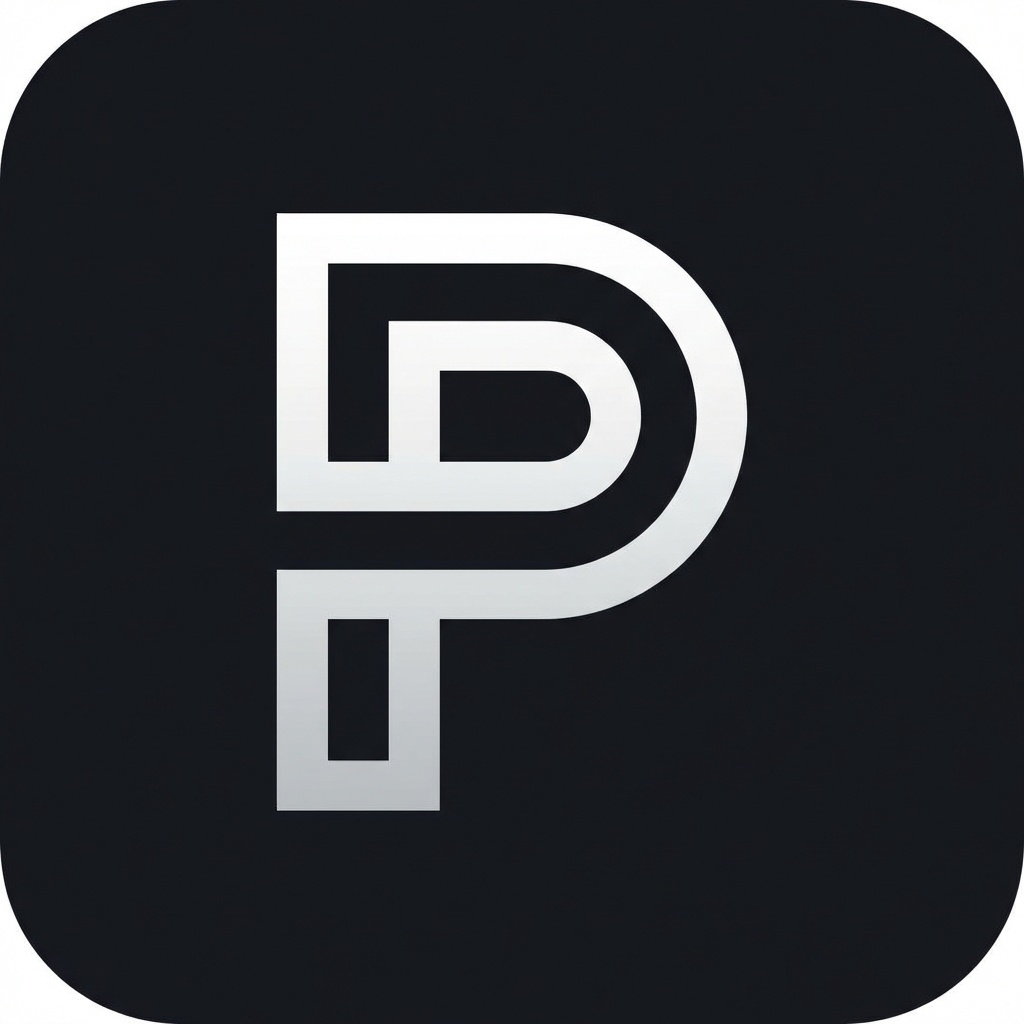
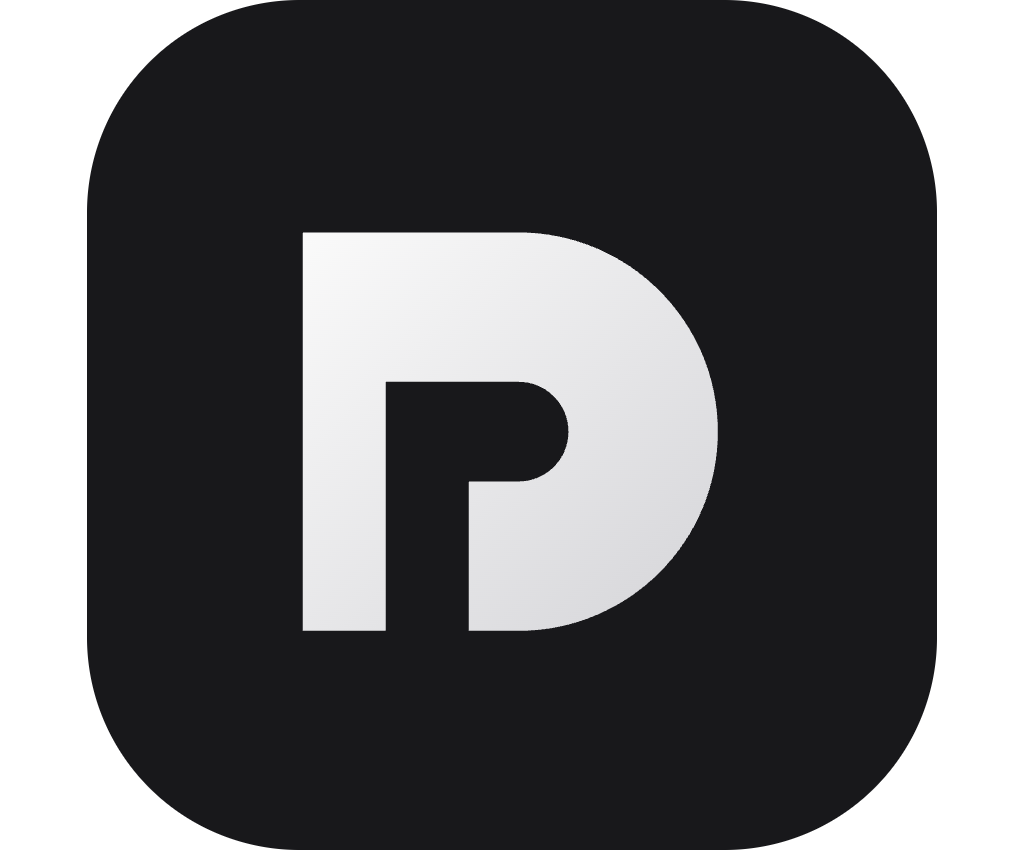
update brand assets

diff --git a/og-gen.html b/og-gen.html
@@ -1,0 +1,21 @@
+<!DOCTYPE html>
+<html>
+<head>
+    <style>
+        body { margin: 0; padding: 0; background-color: #18181b; display: flex; align-items: center; justify-content: center; height: 100vh; width: 100vw; }
+        svg { width: 400px; height: 400px; }
+    </style>
+</head>
+<body>
+    <svg xmlns="http://www.w3.org/2000/svg" viewBox="0 0 512 512">
+      <defs>
+        <linearGradient id="g1" x1="0%" y1="0%" x2="100%" y2="100%">
+          <stop offset="0%" style="stop-color:#fafafa;stop-opacity:1" />
+          <stop offset="100%" style="stop-color:#d4d4d8;stop-opacity:1" />
+        </linearGradient>
+      </defs>
+      <rect width="512" height="512" rx="128" fill="#18181b"/>
+      <path d="M180 140h80c66.27 0 120 53.73 120 120 0 66.27-53.73 120-120 120h-30v-90h30c16.57 0 30-13.43 30-30s-13.43-30-30-30h-80v150h-50V140z" fill="url(#g1)"/>
+    </svg>
+</body>
+</html>
